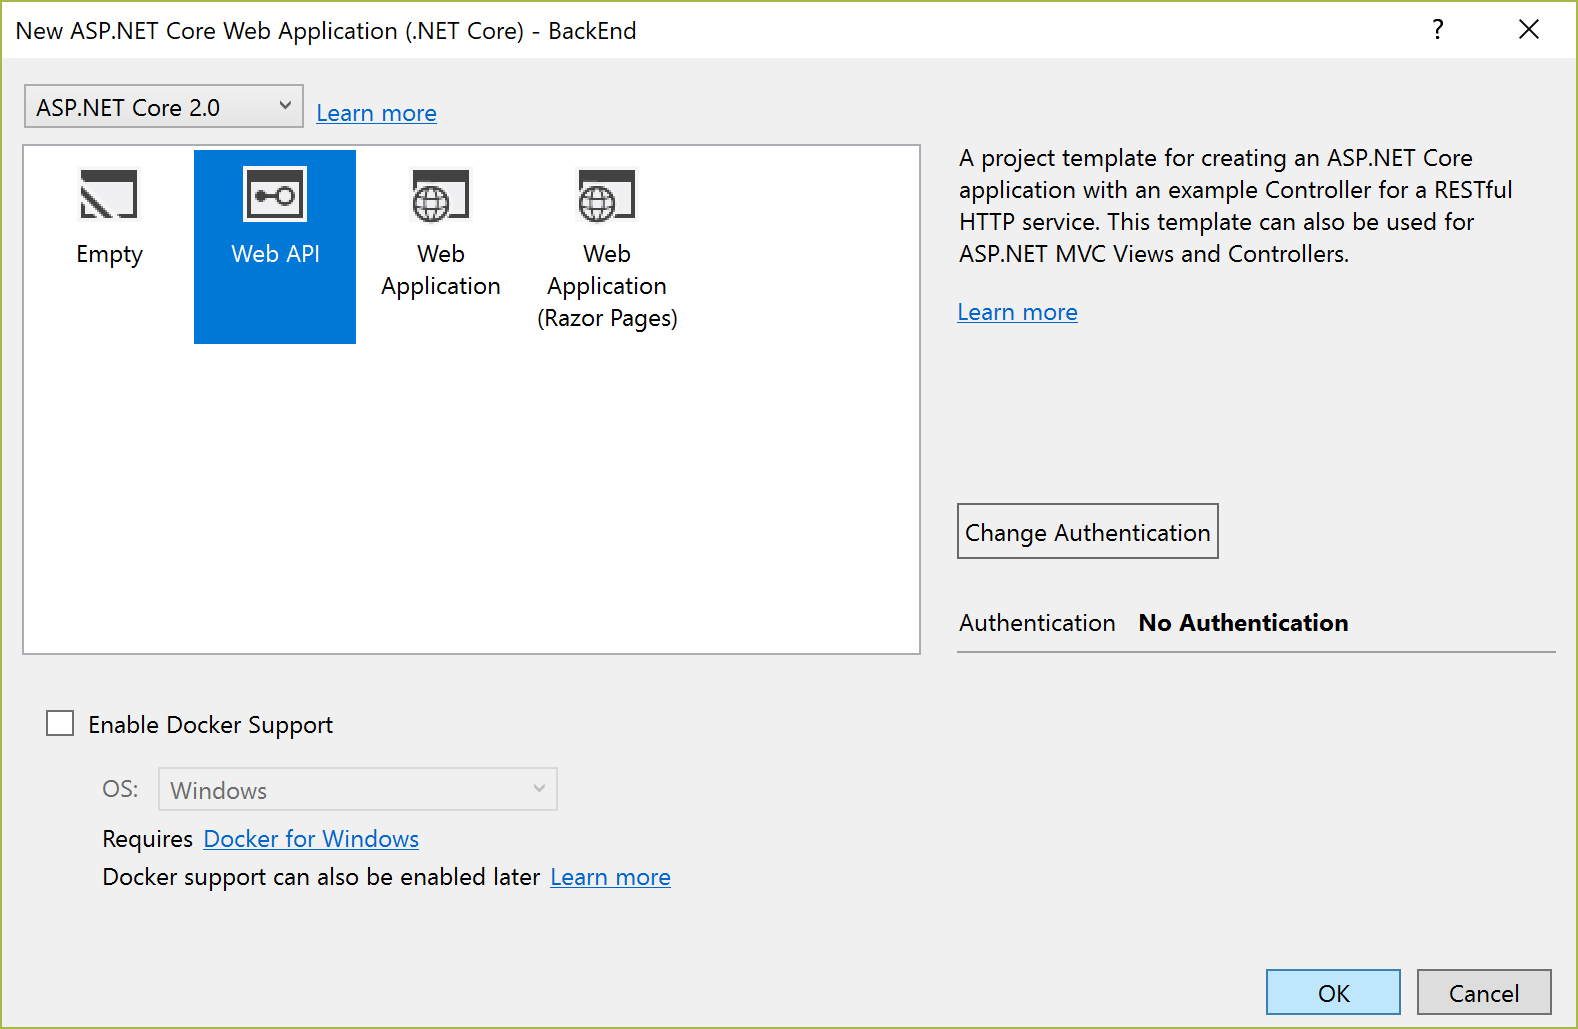
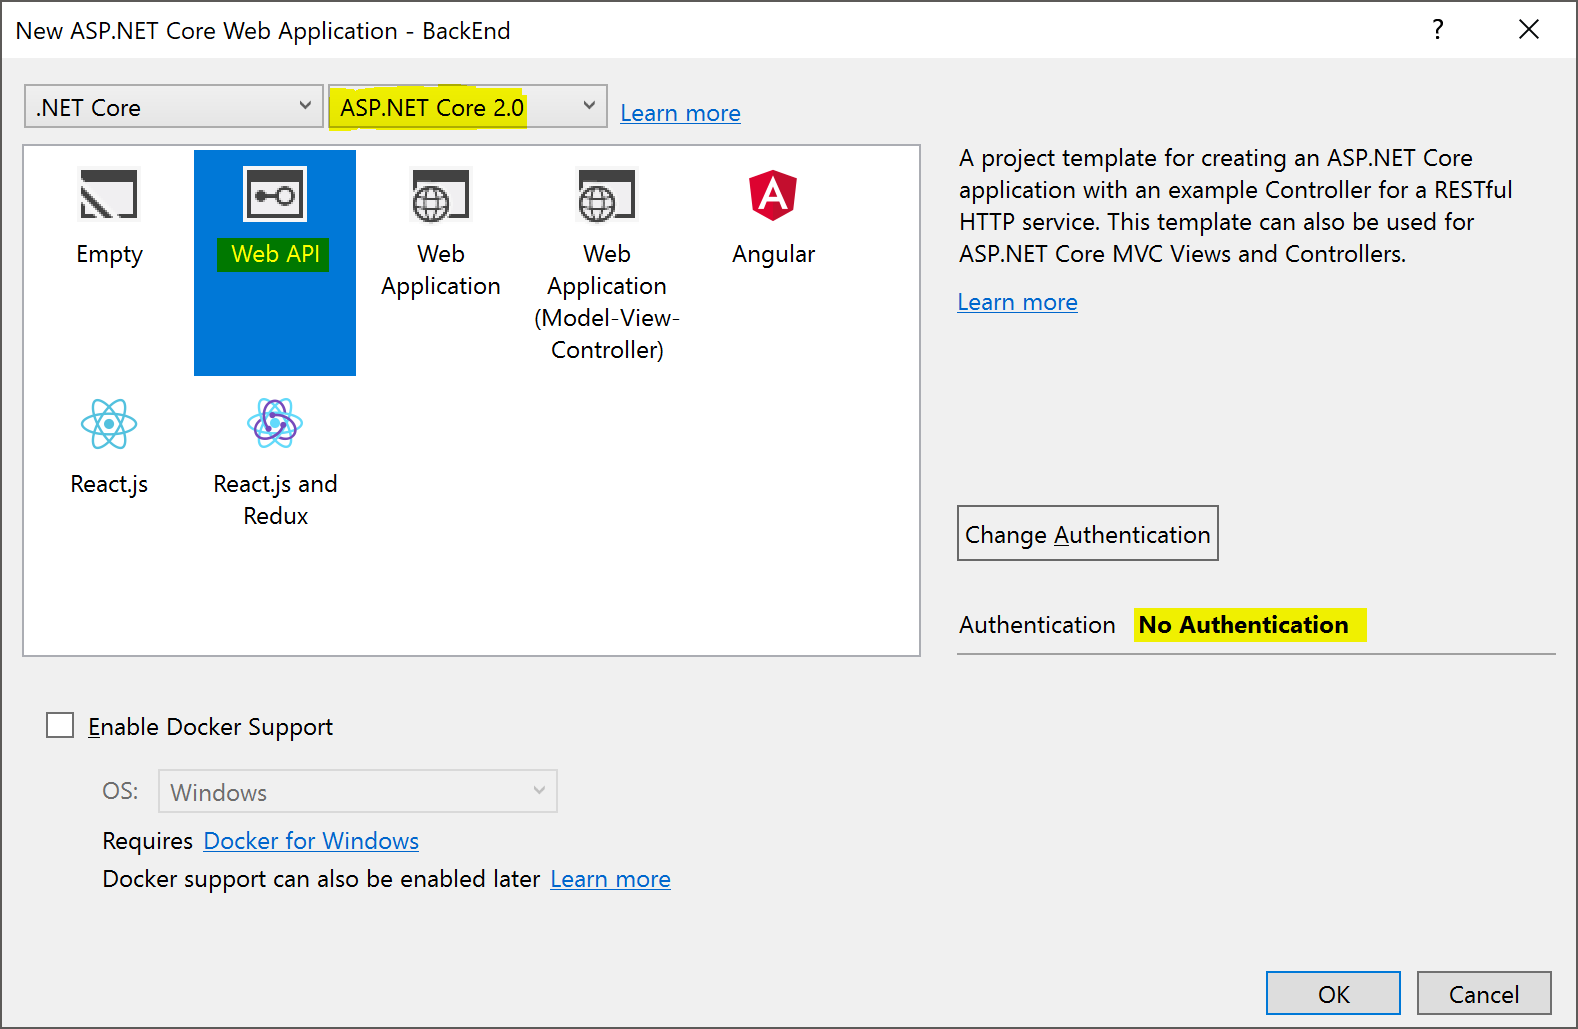
Updated images in docs for section 1 & other tweaks

diff --git a/docs/1. Create BackEnd API project.md b/docs/1. Create BackEnd API project.md
@@ -3,7 +3,7 @@
 1. Create a new project using File / New / ASP.NET Core Web Application. Select the Web API template, No Auth, no Docker support.
    ![](images/new-project.png)
    ![](images/new-web-api-settings.png)
-   > ***Note:* If not using Visual Studio, create the project using `dotnet new webapi`**
+   > ***Note:* If not using Visual Studio, create the project using `dotnet new webapi` at the cmd line**
 1. Add a new `Models` folder to the root of the application.
 1. Add a new `Speaker` class using the following code:
     ```csharp
@@ -32,45 +32,45 @@
     ``` 
 1. Next we'll create a new Entity Framework DbContext. Create a new `ApplicationDbContext` class in the `Models` folder using the following code:
     ```csharp
-   using Microsoft.EntityFrameworkCore;
-   using Microsoft.EntityFrameworkCore.Infrastructure;
-   using Microsoft.Extensions.DependencyInjection;
-   
-   namespace BackEnd.Models
-   {
-       public class ApplicationDbContext : DbContext
-       {
-           public ApplicationDbContext(DbContextOptions<ApplicationDbContext> options)
-               : base(options)
-           {
-   
-           }
+    using Microsoft.EntityFrameworkCore;
+    using Microsoft.EntityFrameworkCore.Infrastructure;
+    using Microsoft.Extensions.DependencyInjection;
 
-           public DbSet<Speaker> Speaker { get; set; }
-       }
+    namespace BackEnd.Models
+    {
+        public class ApplicationDbContext : DbContext
+        {
+            public ApplicationDbContext(DbContextOptions<ApplicationDbContext> options)
+                : base(options)
+            {
 
-       public class ApplicationDbContextFactory : IDbContextFactory<ApplicationDbContext>
-       {
-           public ApplicationDbContext Create(string[] args) =>
-               Program.BuildWebHost(args).Services.CreateScope().ServiceProvider.GetRequiredService<ApplicationDbContext>();
-       }
-   }
+            }
+
+            public DbSet<Speaker> Speaker { get; set; }
+        }
+
+        public class ApplicationDbContextFactory : IDesignTimeDbContextFactory<ApplicationDbContext>
+        {
+            public ApplicationDbContext CreateDbContext(string[] args) =>
+                Program.BuildWebHost(args).Services.CreateScope().ServiceProvider.GetRequiredService<ApplicationDbContext>();
+        }
+    }
     ```
 1. Add a connection string to the appSettings.json file for this database:
 
-   ```json
-   {
-     "Logging": {
-       "IncludeScopes": false,
-       "LogLevel": {
-         "Default": "Warning"
-       }
-     },
-     "ConnectionStrings": {
-       "DefaultConnection": "Server=(localdb)\\mssqllocaldb;Database=BackEndContext-2faf96af-a5fb-451a-b07e-badfooddecaf;   Trusted_Connection=True;MultipleActiveResultSets=true"
-     }
-   }
-   ```
+    ```json
+    {
+        "ConnectionStrings": {
+            "DefaultConnection": "Server=(localdb)\\mssqllocaldb;Database=aspnet-BackEnd-931E56BD-86CB-4A96-BD99-2C6A6ABB0829;Trusted_Connection=True;MultipleActiveResultSets=true"
+        },
+        "Logging": {
+            "IncludeScopes": false,
+            "LogLevel": {
+                "Default": "Warning"
+            }
+        }
+    }
+    ```
 
 ## Register the DB Context Service
 1. Add the following code to the top of the `ConfigureServices()` method in `Startup.cs`:
@@ -87,17 +87,17 @@
         }
     });
    ```
-   >This code registers the ApplicationDbContext service so it can be injected into controllers. Additionally, it configures operating system specific connection strings.
+   >This code registers the `ApplicationDbContext` service so it can be injected into controllers. Additionally, it configures operating system specific database technologies and connection strings.
 
 ## Configuring EF Migrations
-1. Add the `Microsoft.EntityFrameworkCore.Tools.DotNet` NuGet package. Edit the project file and adding it to the tools reference group:
+1. Add the `Microsoft.EntityFrameworkCore.Tools.DotNet` NuGet package. Edit the project file and add it to the tools reference `<ItemGroup>`:
    ```xml
    <ItemGroup>
-     <DotNetCliToolReference Include="Microsoft.VisualStudio.Web.CodeGeneration.Tools" Version="2.0.0-preview1-final" />
-     <DotNetCliToolReference Include="Microsoft.EntityFrameworkCore.Tools.DotNet" Version="2.0.0-preview1-final" />
+     <DotNetCliToolReference Include="Microsoft.VisualStudio.Web.CodeGeneration.Tools" Version="2.0.0" />
+     <DotNetCliToolReference Include="Microsoft.EntityFrameworkCore.Tools.DotNet" Version="2.0.0" />
    </ItemGroup>
    ```
-   >Note: Adding via the Visual Studio dialog or via commandline currently doesn't work, since it will add as a library package rather than a tools package.
+   >Note: Adding CLI tools via the Visual Studio dialog or cmd line currently doesn't work, since it will add as a library package rather than a tools package.
 1. Open a command prompt and navigate to the project directory. (The directory containing the `Startup.cs` file).
 
 1. Run the following commands in the command prompt:
@@ -112,12 +112,26 @@
 ## A quick look at the Values Controller
 First, open the `Controllers` controller and take a quick look at the `ValuesController`. You'll see simple functions that correspond to HTTP verbs. You'll see the output of this controller in a bit, but first we'll build our own API controller for the `Speakers` model class.
 
-## Scaffolding an API Controller 
->*Note:* Scaffolding is only available in Visual Studio 2017 (Windows). If you're running on another platform or have trouble with this section, you can just copy the  completed controller code in from [here](/save-points/1-Create-API-and-EF-Model/ConferencePlanner/BackEnd/Controllers/SpeakersController.cs).
+## Scaffolding an API Controller
+### Using Visual Studio
 1. Right-click the `Controllers` folder and select Add/Controller. You'll be shown a prompt for setting up Scaffolding. Select "Minimal Dependencies".
 1. Again, right-click the `Controllers` folder and select Add/Controller. Select "API Controller with Actions, Using EF".
 1. In the dialog, select the `Speaker` model for the Model Class, `ApplicationDbContext` for the "Data Context Class" and click the `Add` button.
    ![](images/scaffold-api-controller.png)
+
+### Using the cmd line
+1. Edit the project file to add a reference to the `Microsoft.VisualStudio.Web.CodeGeneration.Design` package:
+    ```xml
+    <ItemGroup>
+        <PackageReference Include="Microsoft.AspNetCore.All" Version="2.0.0" />
+        <PackageReference Include="Microsoft.VisualStudio.Web.CodeGeneration.Design" Version="2.0.0" />
+    </ItemGroup>
+    ```
+1. Run `dotnet restore` in the project folder at the cmd line
+1. Run the following in the project folder at the cmd line:
+    ```
+    dotnet aspnet-codegenerator controller -name SpeakersController -namespace BackEnd.Controllers -m BackEnd.Models.Speaker -dc BackEnd.Models.ApplicationDbContext -api -outDir Controllers
+    ```
 
 ## Testing the API using the Swashbuckle
 
